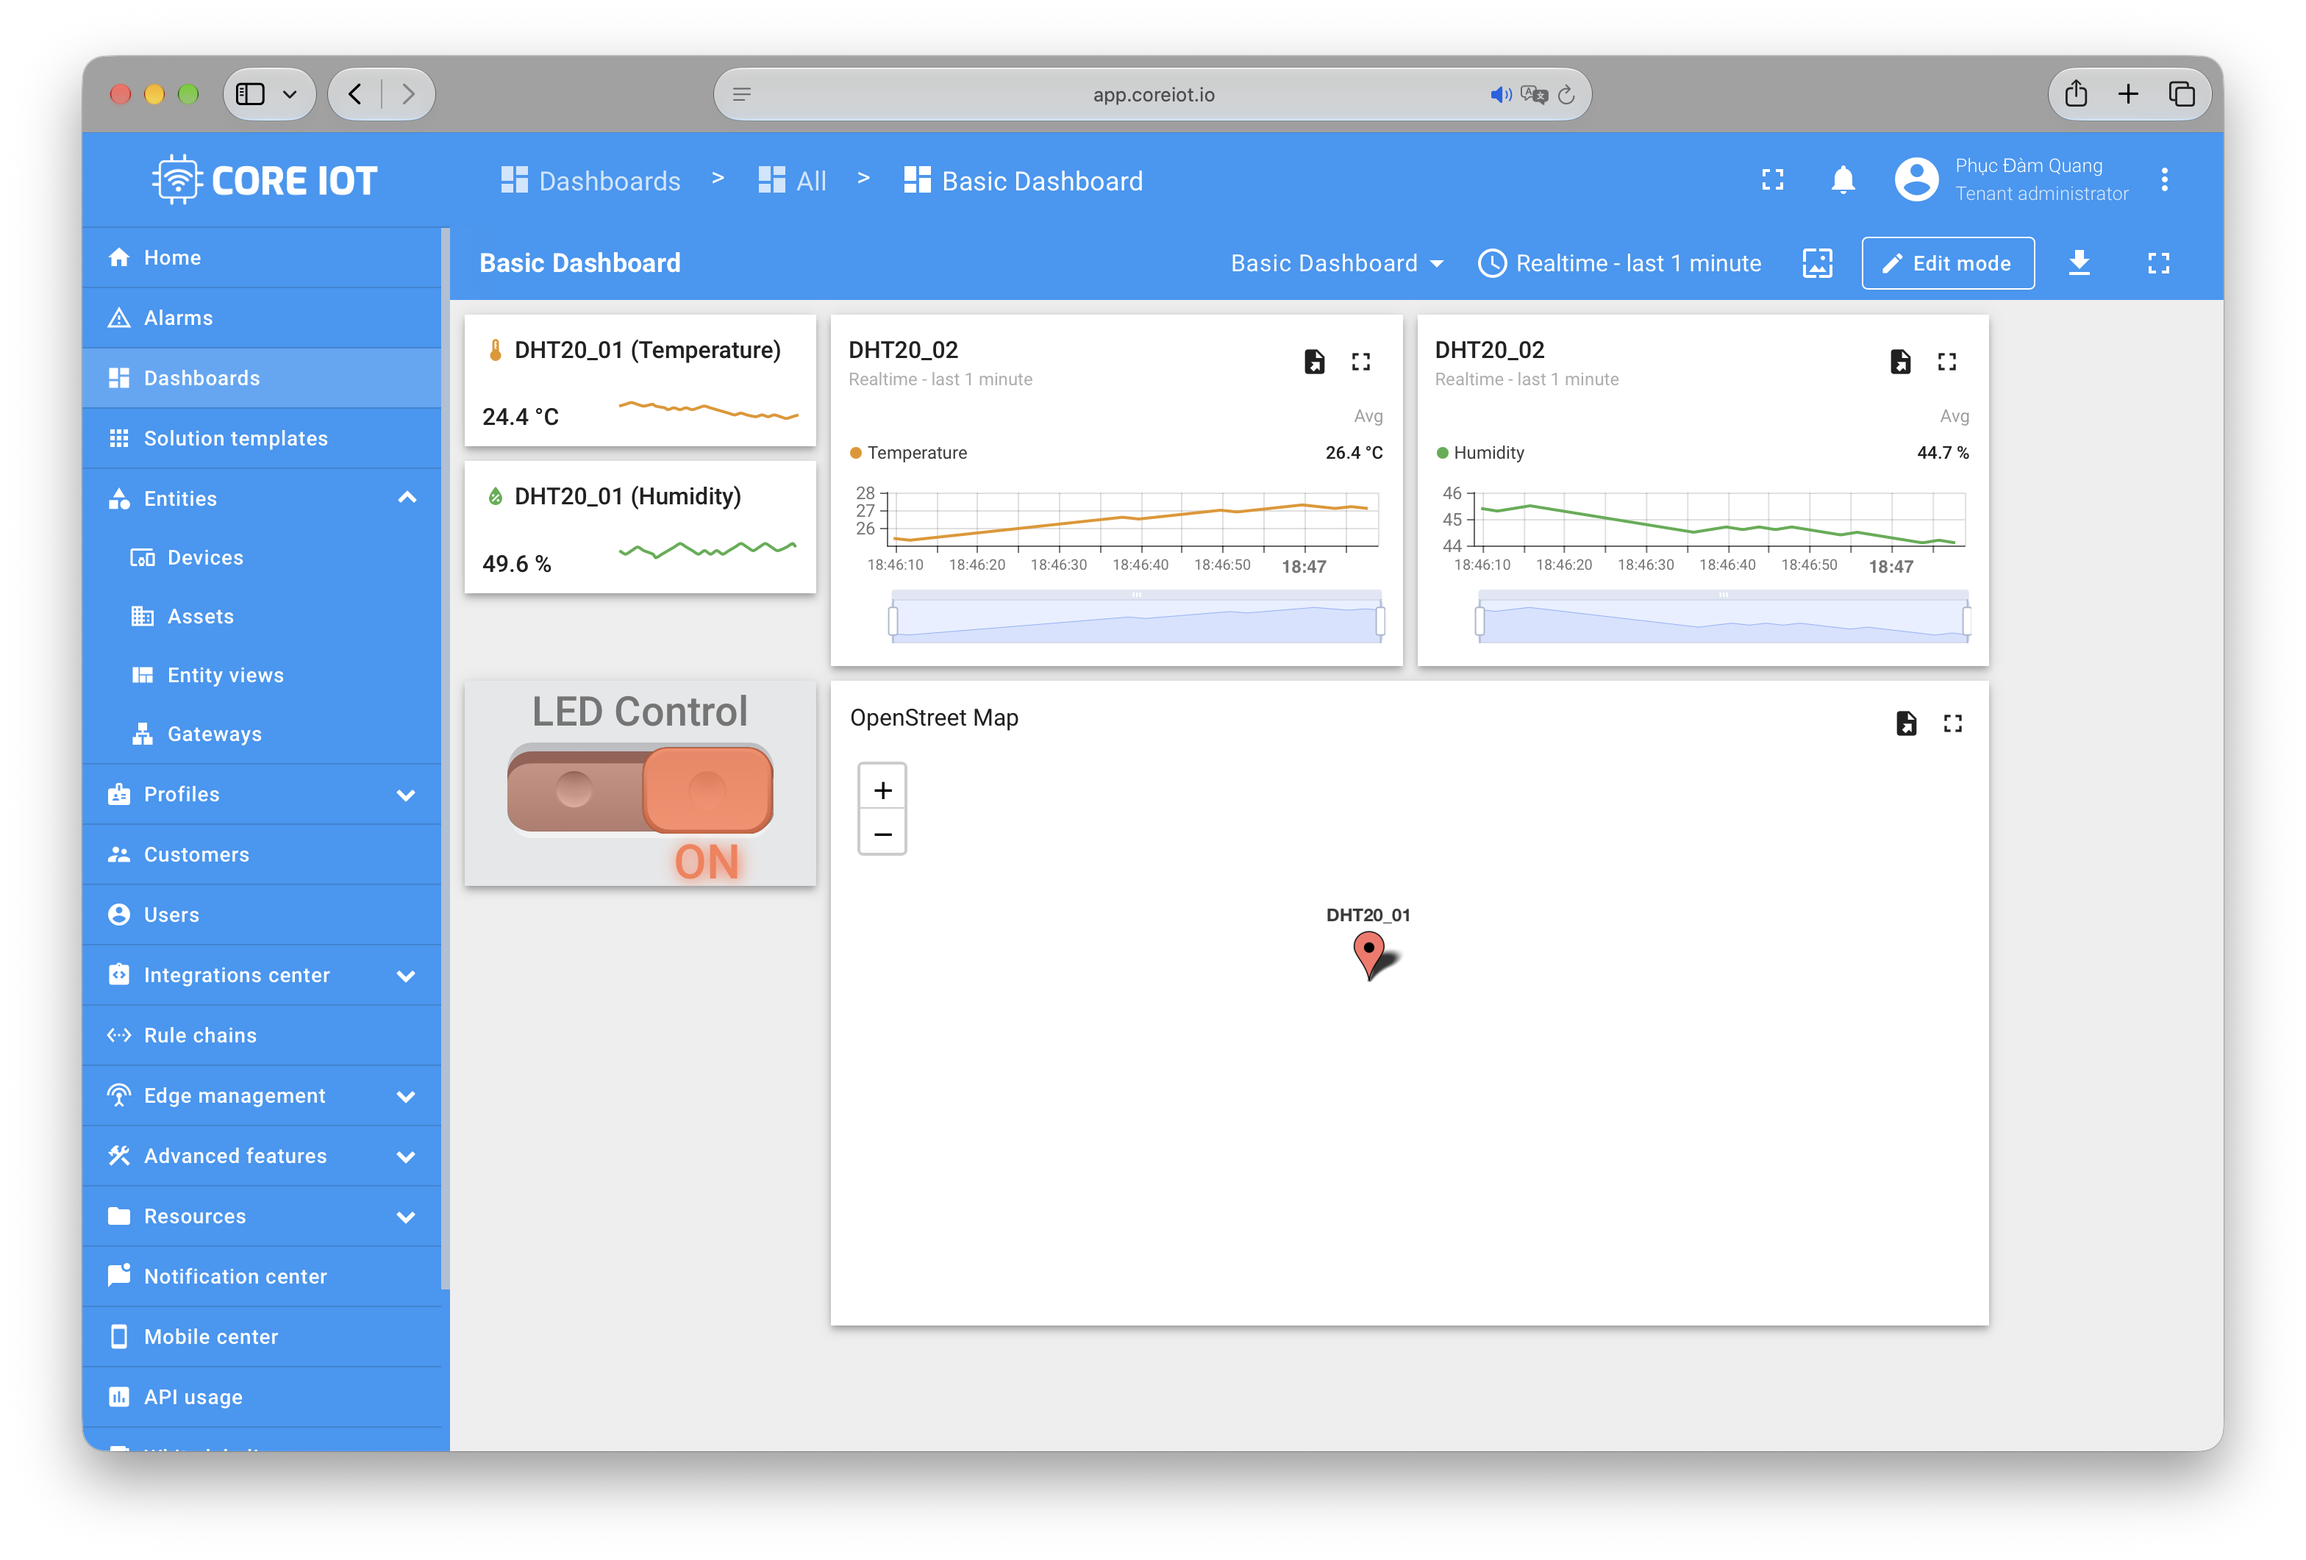
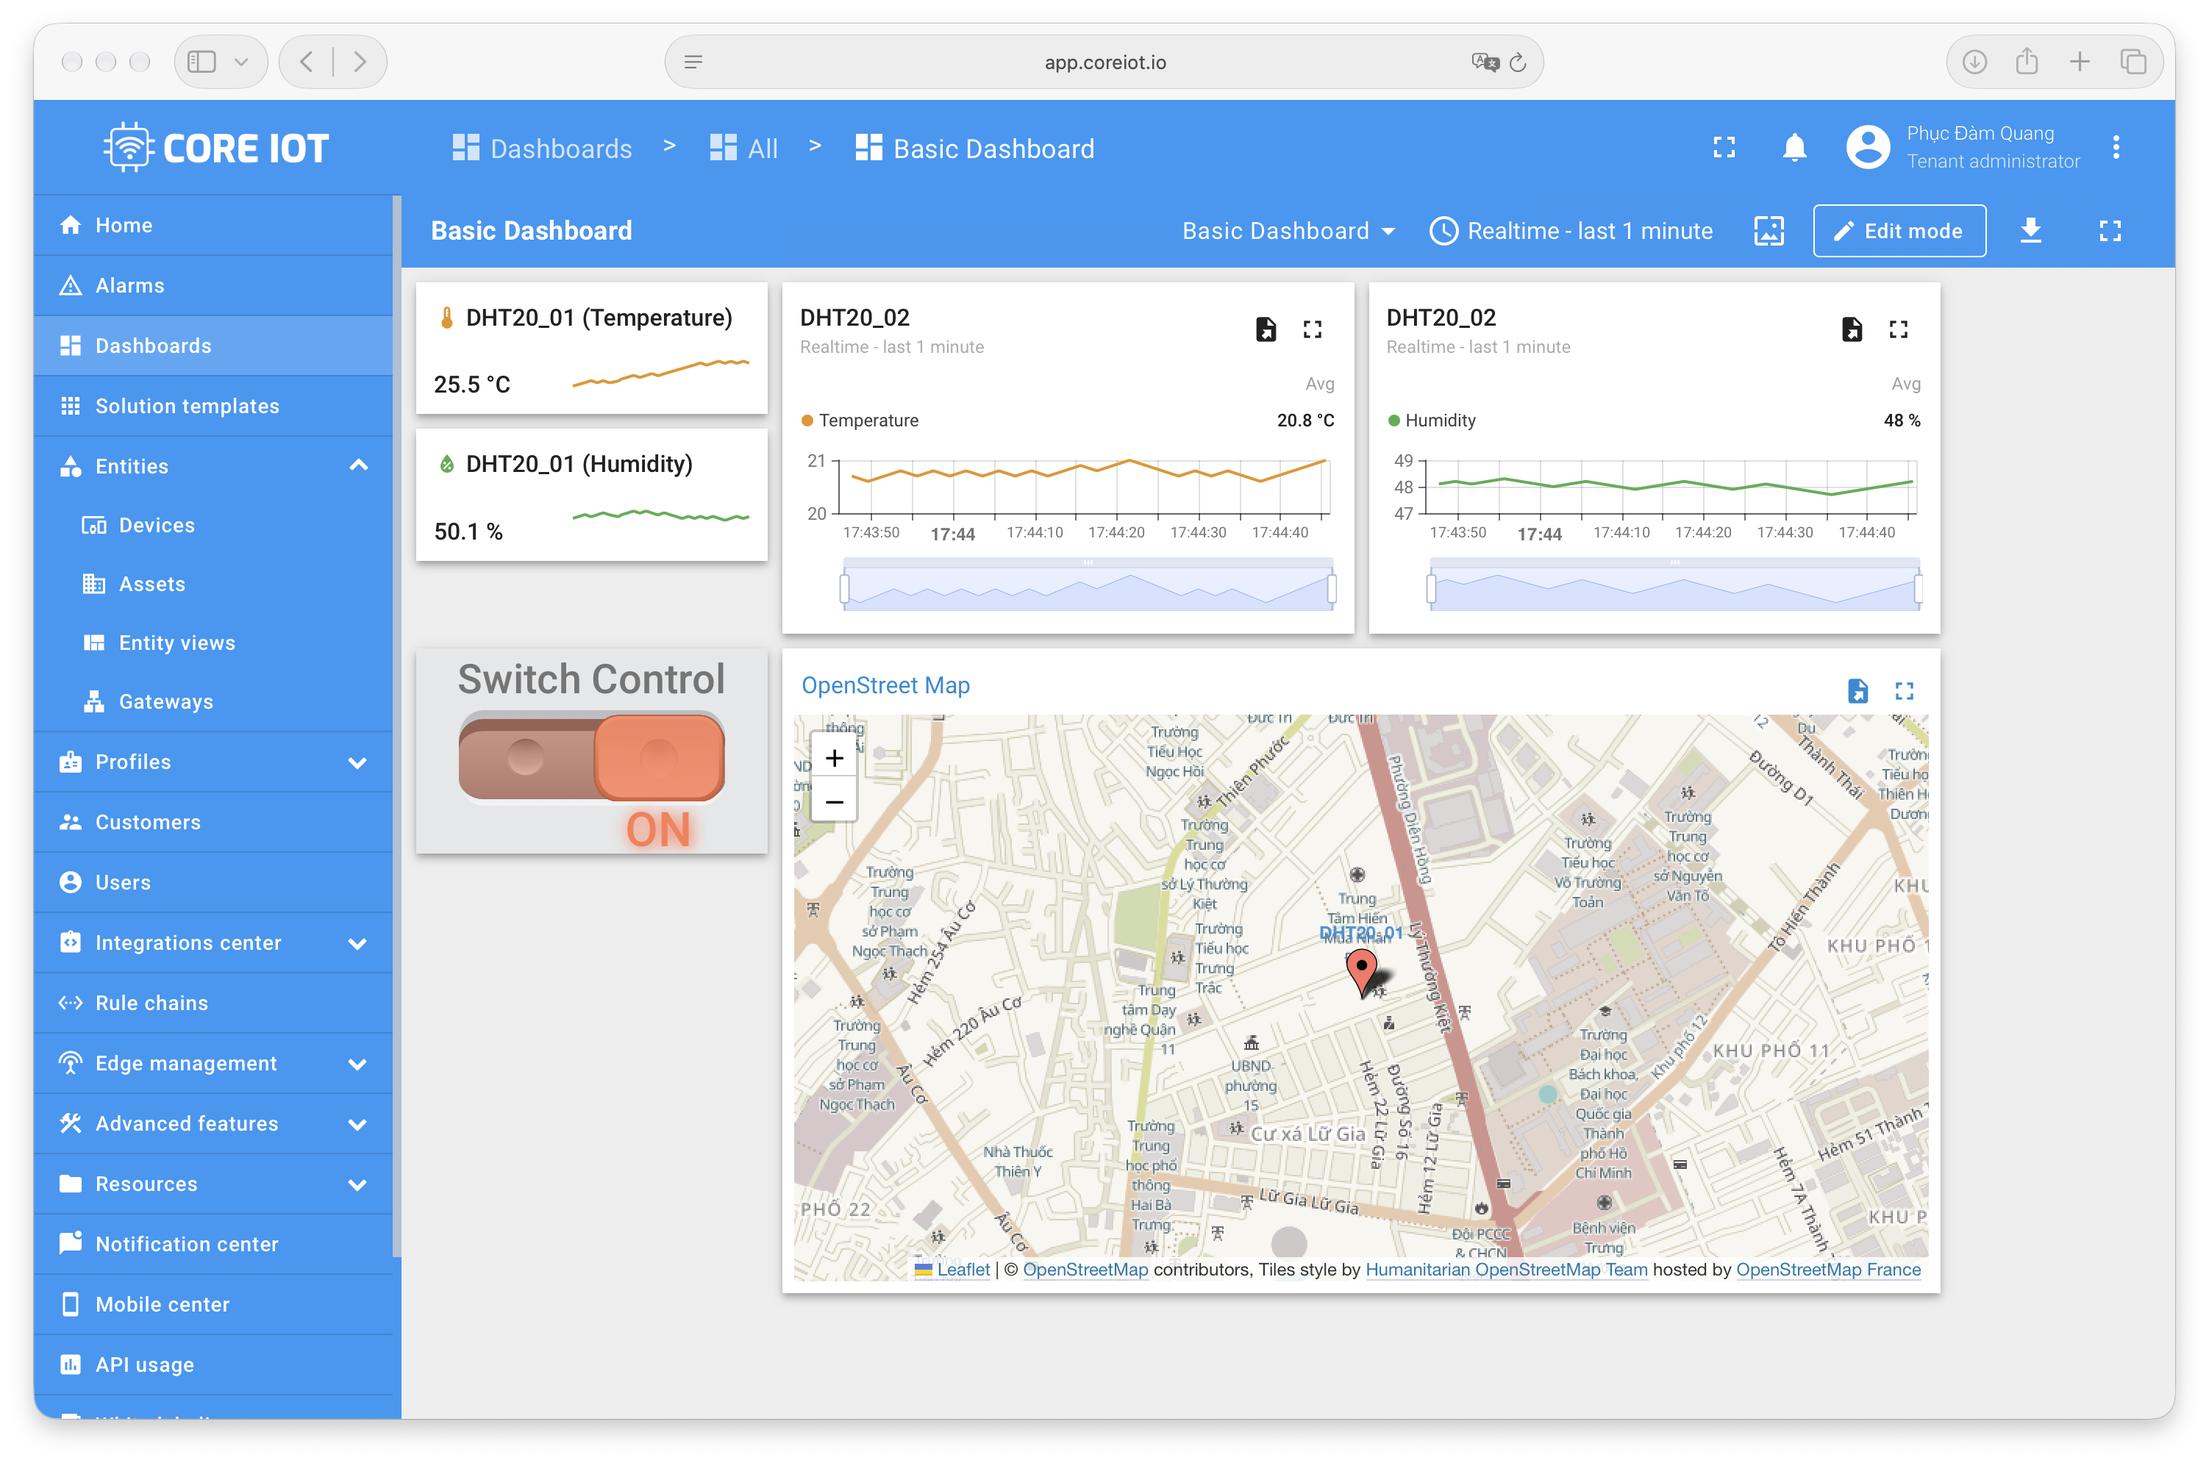
Clean up source code of DHT20_02, add °C %, fix CoreIoT map not show

Changed region(s): [[0.0, 0.0312, 0.9907, 0.997]]

diff --git a/CoreIoT/dht20_02.py b/CoreIoT/dht20_02.py
@@ -22,21 +22,7 @@ def on_subscribe(client, userdata, mid, granted_qos):
     print("Subscribed to topic: " + SUBSCRIBE_TOPIC)
 
 def on_message(client, userdata, message):
-    
     print("Received: ", message.payload.decode("utf-8"))
-
-    try:
-        json_obj = json.loads(message.payload)
-
-        if json_obj['method'] == "setValue":
-
-            temp_data = {'value': True}
-            temp_data['value'] = json_obj['params']
-
-            print("temp_data: ", temp_data)
-            #client.publish('v1/devices/me/attributes', json.dumps(temp_data), 1)
-    except:
-        pass
 
 
 def main():
@@ -58,7 +44,7 @@ def main():
 
         temperature = round(temperature + random.choice([-0.1, 0.1]), 1)
         humidity    = round(humidity + random.choice([-0.1, 0.1]), 1)
-        print(f'temperature: {temperature} - humidity: {humidity}')
+        print(f'temperature: {temperature} °C- humidity: {humidity} %')
 
         collect_data = {'temperature': temperature, 'humidity': humidity}
         client.publish(PUBLISH_TELEMETRY, json.dumps(collect_data), 1)

diff --git a/CoreIoT/dht20_01.py b/CoreIoT/dht20_01.py
@@ -61,7 +61,7 @@ def main():
 
         temperature = round(temperature + random.choice([-0.1, 0.1]), 1)
         humidity    = round(humidity + random.choice([-0.1, 0.1]), 1)
-        print(f'temperature: {temperature} - humidity: {humidity}')
+        print(f'temperature: {temperature} °C- humidity: {humidity} %')
 
         collect_data = {'temperature': temperature, 'humidity': humidity,
                         'longitude': POSITION_LONGITUDE, 'latitude': POSITION_LATITUDE}

diff --git a/LED Blinky/src/main.cpp b/LED Blinky/src/main.cpp
@@ -53,6 +53,7 @@ void setup()
   xTaskCreate(neo_blinky, "NEO Control", 2048, NULL, 2, NULL);  // Task control LED NEO
 }
 
-void loop() {
+void loop()
+{
   // put your main code here, to run repeatedly:
 }
